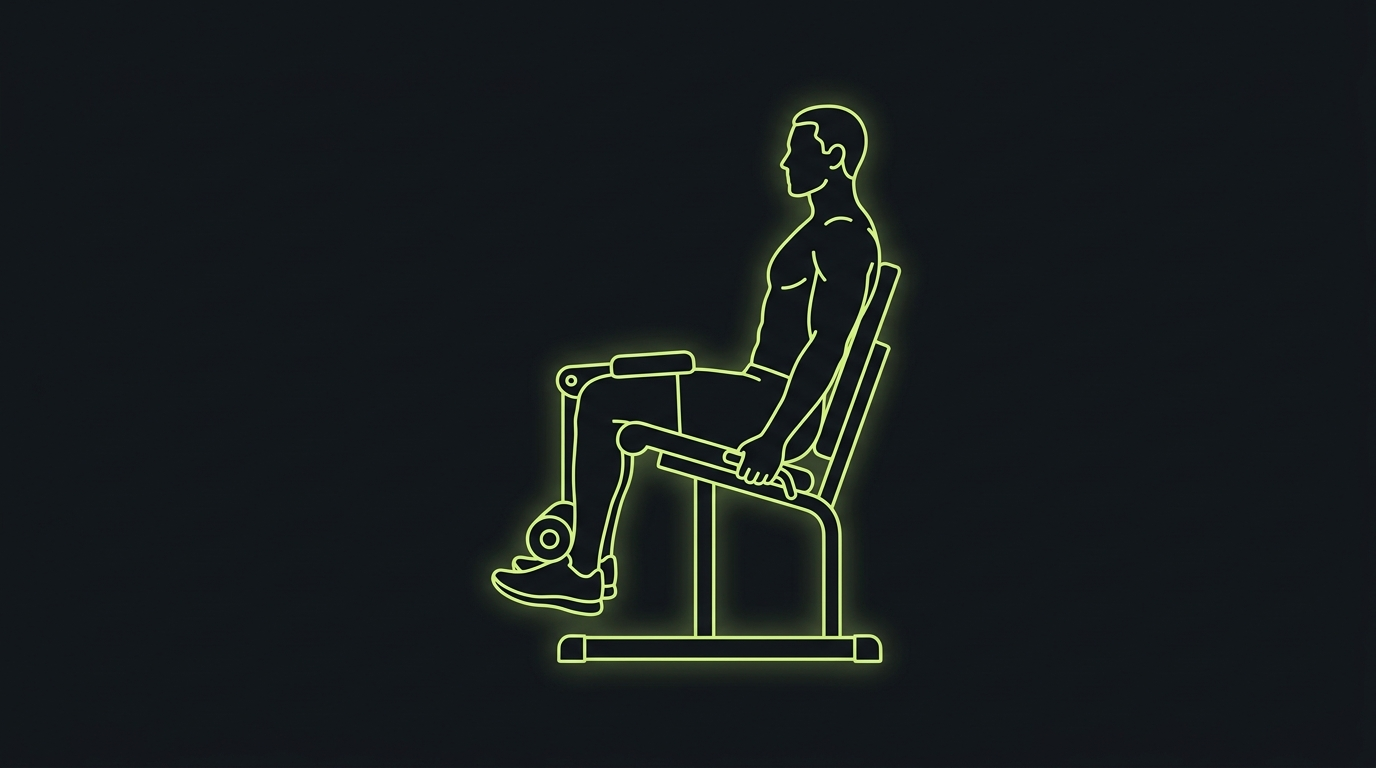
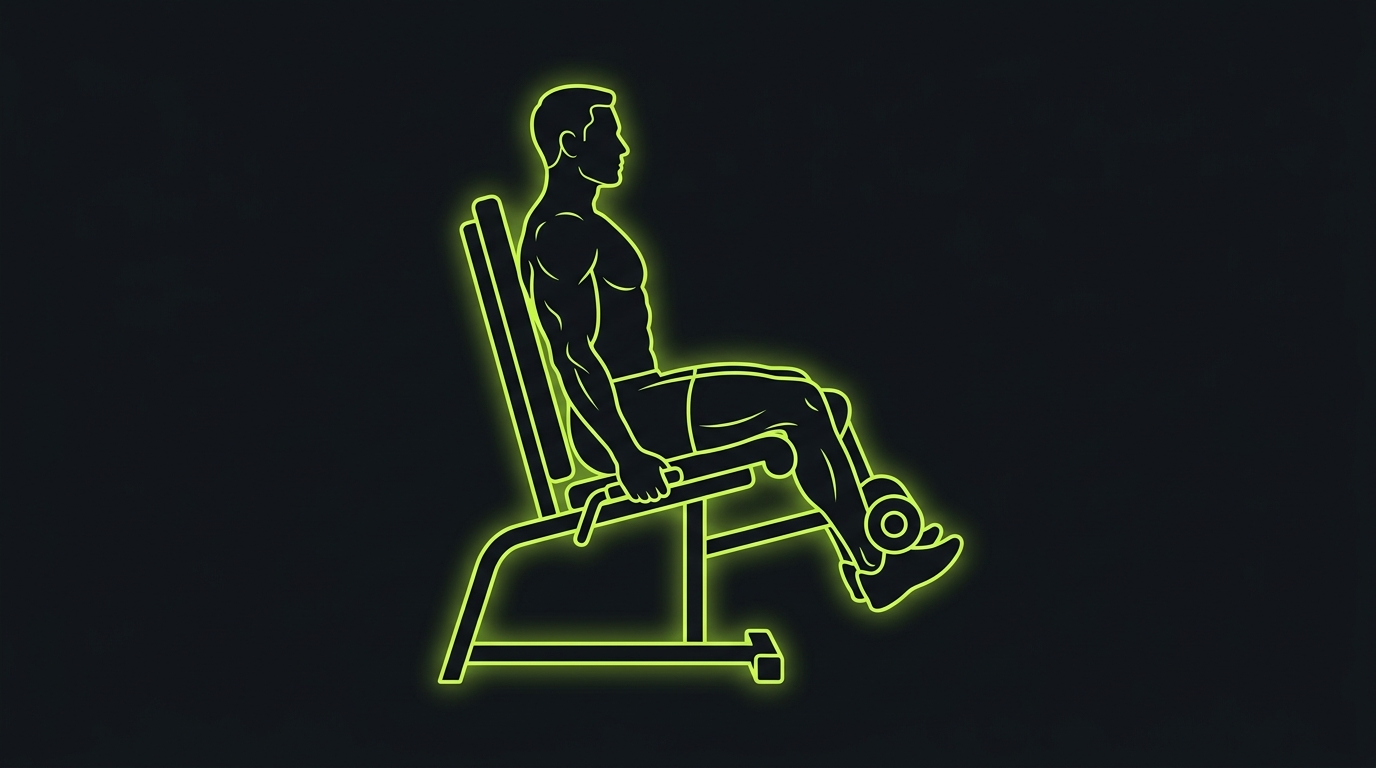
feat(ejercicios): add gemelos sentado and update femoral sentado images
Add seated calf raise exercise. Regenerate femoral sentado images
with improved prompt for correct roller position.

Changed region(s): [[0.3125, 0.0938, 0.7188, 0.9062]]

diff --git a/ejercicios/generate_images.py b/ejercicios/generate_images.py
@@ -59,9 +59,10 @@ EXERCISE_PROMPTS = {
     "prensa-vertical": ("a vertical leg press machine with metal frame and guide rails, person lying on back on the base pad inside the machine frame, pushing a plate-loaded platform vertically upward with both feet along guide rails", "3/4 diagonal view"),
     "femoral-de-pie": ("a standing single-leg hamstring curl machine, standing upright with chest leaning on pad, curling one leg back bringing heel toward glute against a roller pad", "3/4 diagonal view from behind"),
     "femoral-tumbado": ("a prone lying leg curl machine, lying face down on a bench curling both heels toward glutes against a roller pad, gripping front handles", "side view"),
-    "femoral-sentado": ("a seated leg curl machine for hamstrings, the person is sitting on the seat with knees bent at 90 degrees and feet tucked directly below the knees pointing straight down to the floor, a pad rests across the top of the thighs and a roller is behind the ankles, the lower legs are vertical under the seat", "side view"),
+    "femoral-sentado": ("person sitting on a machine seat in a gym, torso upright, thighs flat on the seat, but the knees are bent sharply so the feet go DOWN and BACK with the soles of the feet facing the wall behind the chair, the calves are pressed against a round roller pad under the seat near the floor", "side view close-up"),
     "press-inclinado-unilateral-maquina": ("a seated single-arm incline chest press on a machine, pushing upward and forward with one arm on an inclined trajectory", "3/4 diagonal view"),
     "extensiones-triceps-barra": ("a standing tricep straight bar pushdown on a cable machine, gripping a straight bar pushing down", "3/4 diagonal view"),
+    "gemelos-sentado": ("a seated calf raise machine, person sitting with a pad on top of the knees, feet on a platform with heels hanging off the edge, raising the heels upward by contracting the calves", "3/4 diagonal view"),
 }
 
 
